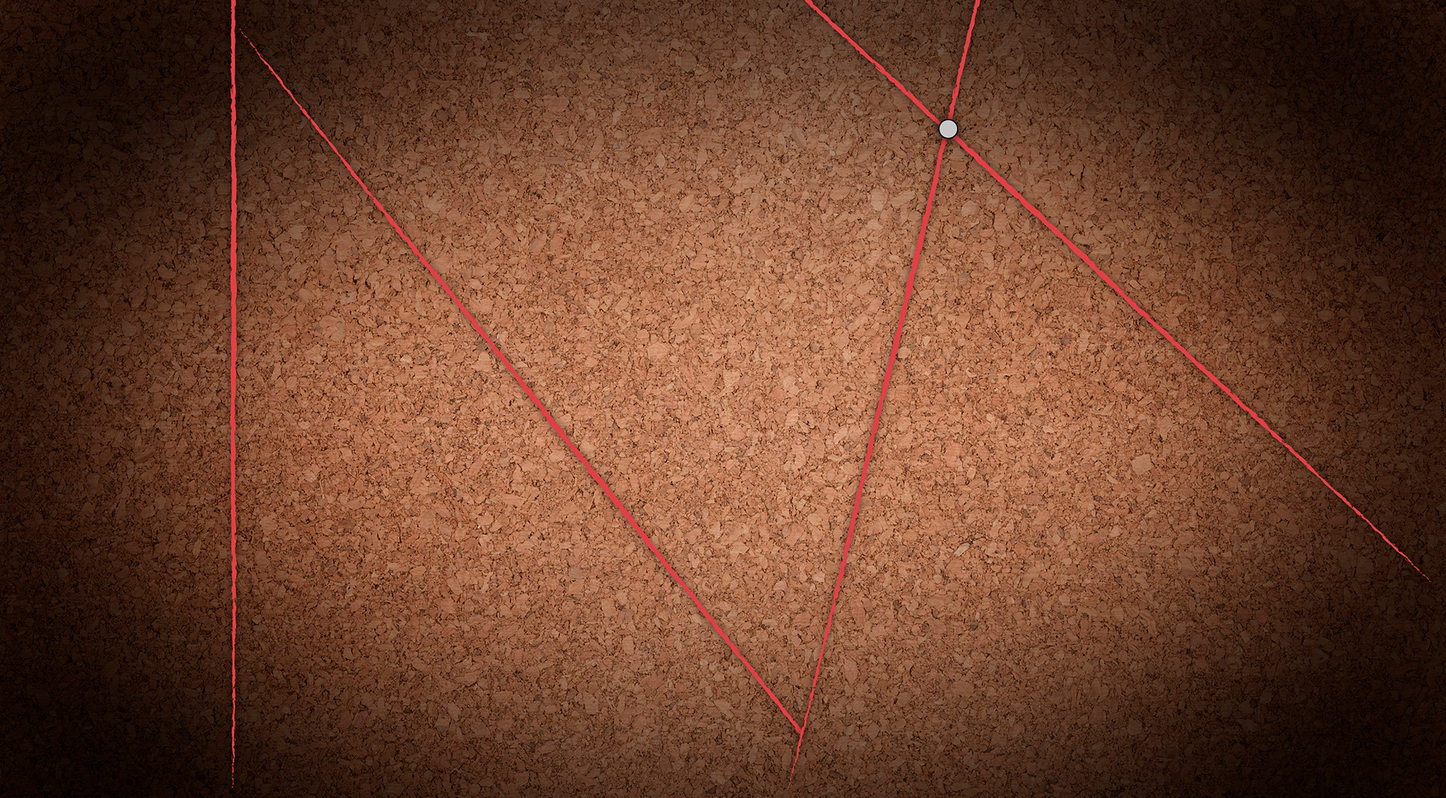
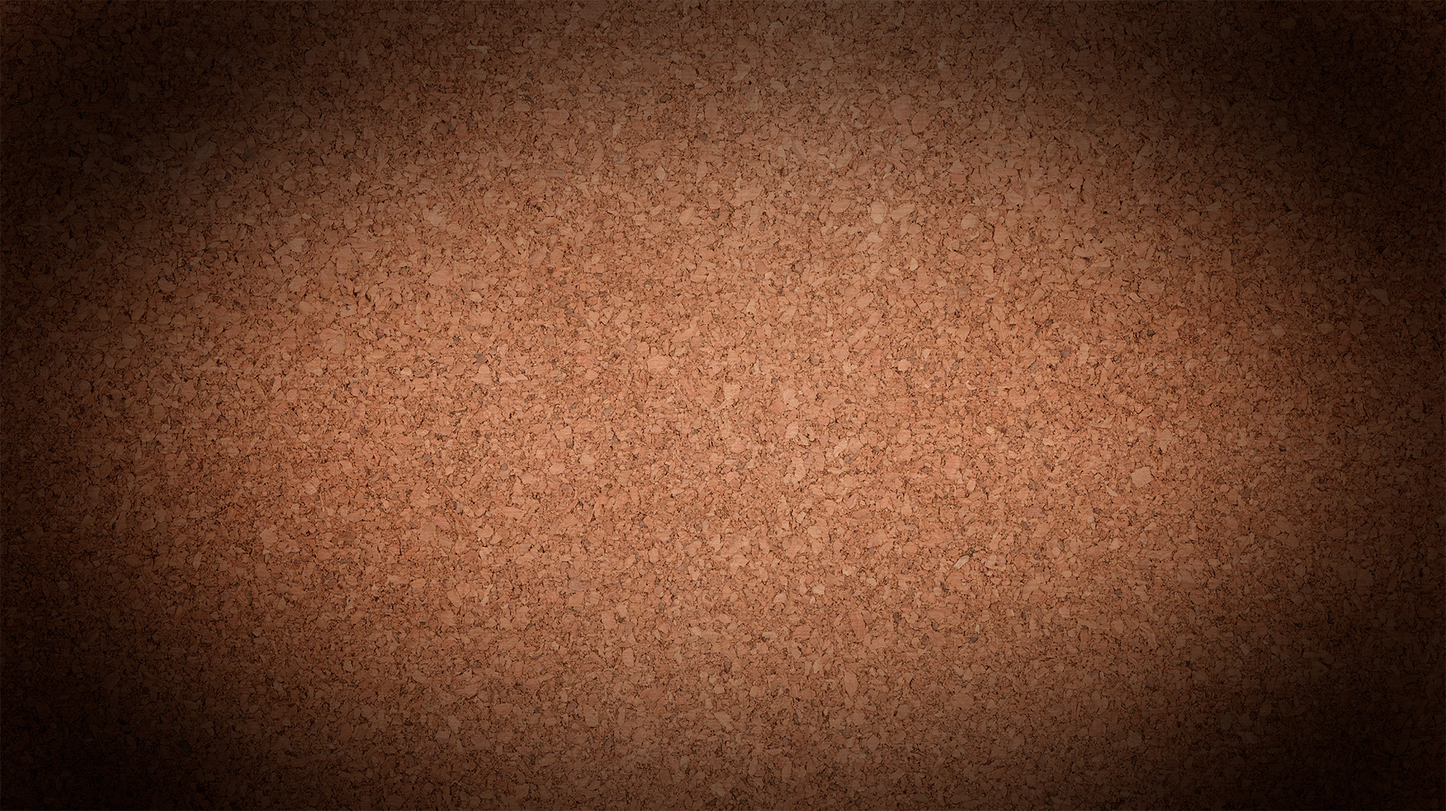
dkjfldkjfl

Changed region(s): [[0.0, 0.0, 1.0, 0.934], [0.7812, 0.0623, 0.8125, 0.0934], [0.4688, 0.9962, 0.5, 1.0]]

diff --git a/Estate/css/style.css b/Estate/css/style.css
@@ -87,7 +87,7 @@ body {
 }
 
 .main-screen {
-    background: #000 url('../img/About_Background_Board.jpg') no-repeat fixed;
+    background: #000 url('../img/About_Background_Board.jpg') no-repeat center;
     background-size: cover;
     height: 100vh;
     scroll-behavior: smooth;
@@ -95,11 +95,25 @@ body {
     scroll-snap-type: y mandatory;
 }
 
-.main-screen .bg-bottom {
-	position: fixed;
+.main-screen .line {
+	width: 50px;
+	position: absolute;
+	top: 0;
+	left: 15%;
 	bottom: 0;
+	z-index: 2;
+	background: url(../img/v-line.png) no-repeat center top;
+	background-size: 25px 100%;
+}
+.main-screen .bg-line {
+	position: absolute;
+	top: 0;
+	left: 15%;
 	right: 0;
-	max-width: 70%;
+	bottom: 0;
+	z-index: 2;
+	background: url(../img/bg-line.png) no-repeat;
+	background-size: cover;
 }
 
 .main-screen .fixed-left {
@@ -114,6 +128,7 @@ body {
 	position: absolute;
 	top: -75px;
 	right: -75px;
+	z-index: 3;
 }
 .main-screen .fixed-right img:nth-child(1) {
 	position: absolute;
@@ -135,6 +150,14 @@ body {
 	width: 220px;
 }
 
+.main-screen .bg-bottom {
+	position: fixed;
+	bottom: 0;
+	right: 0;
+	max-width: 70%;
+	z-index: 4;
+}
+
 .section {
 	display: flex;
     flex-direction: column;
@@ -143,6 +166,7 @@ body {
     height: 100vh;
     position: relative;
     scroll-snap-align: start;
+    z-index: 3;
 }
 
 .text-paper {
@@ -223,6 +247,8 @@ body {
 }
 
 @media screen and (max-width: 1600px) {
+	.main-screen .line {left: 13.5%;}
+
 	.main-screen .fixed-left {
 	    top: -165px;
 	    left: 85px;
@@ -240,6 +266,10 @@ body {
 }
 
 @media screen and (max-width: 1200px) {
+	.main-screen .fixed-left {left: -56px;}
+	.main-screen .line {left: 70px;}
+	.main-screen .bg-line {left: 70px;}
+
 	.nav {left: 30px;}
 
 	.text-paper {max-width: 800px;}

diff --git a/Estate/index.html b/Estate/index.html
@@ -9,6 +9,9 @@
 <body>
 
 <div class="main-screen">
+    <div class="line"></div>
+    <div class="bg-line"></div>
+
     <!-- MENU -->
     <nav class="nav">
         <a href="#first" class="linek-first"><span>SUMMARY</span></a>
